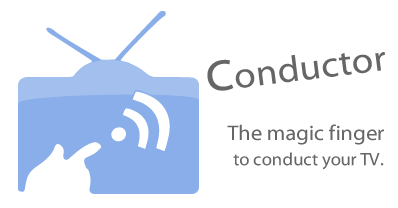
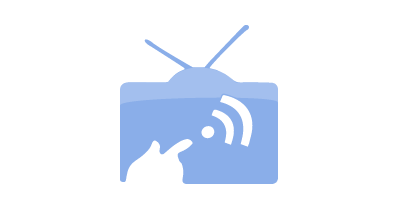
Update url og:image

diff --git a/index.html b/index.html
@@ -5,7 +5,7 @@
 	<meta http-equiv="X-UA-Compatible" content="IE=edge">
 	<title>Conductor | The magic finger to conduct your TV</title><meta property="og:title" content="その記事のタイトル">
 	<meta property="fb:app_id" content="651483684909819" />
-	<meta property="og:image" content="http://conductor.hajipion.com/images/share-image.png">
+	<meta property="og:image" content="http://conductor.hajipion.com/images/shareimage.png">
 	<meta property="og:site_name" content="Counductor">
 	<meta property="og:title" content="Conductor | The magic finger to conduct your TV" />
 	<meta property="og:description" content="Conductor is the revolutional TV application. With Conductor, you can Search, purchase, control anything on TV. Are you Doubtful? Let's Try!" />
